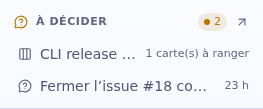
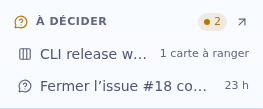
L'instance peut couper les décisions, et la section « À décider » accorde son pluriel
`[mcp] decisions` dans config.toml plafonne le réglage de conversation, comme les
autres familles d'outils du serveur MCP : éteint, l'outil n'est plus listé, la
demande est refusée côté base et l'entrée disparaît des réglages de session. Il est
allumé par défaut : c'est un veto, le réglage de conversation restant faux tant
qu'on ne l'accorde pas. La ligne d'un rangement en attente dit « 1 carte à
ranger » au lieu de « 1 carte(s) ».

Changed region(s): [[0.4563, 0.4404, 0.7605, 0.5505]]

diff --git a/packages/protocol/src/agent-config.ts b/packages/protocol/src/agent-config.ts
@@ -56,8 +56,7 @@ export const claudeEffortSchema = z.enum(['low', 'medium', 'high', 'xhigh', 'max
  * `request_card_move`, l'agent propose et c'est le clic qui agit, et toute réécriture
  * par un agent le remet en attente. La garde est donc sur le script et non sur l'outil.
  *
- * **Quatre étages d'héritage**, les mêmes pour toutes les familles (sauf `decisions`, qui
- * n'a pas le quatrième) : conversation →
+ * **Quatre étages d'héritage**, les mêmes pour toutes les familles : conversation →
  * préréglage de projet (`projects.default_config`) → défaut de compte → `config.toml`.
  * Les trois premiers sont des points de départ (`??`), le dernier seul est un plafond
  * (`&&`), et c'est lui qui fait *disparaître* l'entrée de l'interface. Toutes les
@@ -68,8 +67,8 @@ export const claudeEffortSchema = z.enum(['low', 'medium', 'high', 'xhigh', 'max
  * **Le prix d'une famille neuve est de quatre endroits** — les trois schémas de CLI
  * ci-dessous et `apps/server/src/config.ts` — **plus deux catalogues i18n.** C'est cet
  * argument, et non le critère, qui a tenu le nombre à quatre. `decisions`, la cinquième,
- * s'en tire à trois endroits : elle n'a pas de plafond d'instance (voir son schéma), donc
- * trois étages d'héritage au lieu de quatre.
+ * les paie aussi ; son plafond d'instance est seulement allumé par défaut (voir son
+ * schéma).
  *
  * `FREE_THREAD_TOOLS` (`apps/server/src/mcp/solera-mcp.mjs`) n'est **pas** une famille et
  * n'a rien à faire dans un écran de réglages : c'est la liste des outils qui ont encore
@@ -172,8 +171,9 @@ export const DEFAULT_DECISION_HOURS = 24
  * par son `config`), mais ouvert à toute session qui l'a : une session interactive qu'on
  * quitte pour la nuit en a le même usage.
  *
- * Pas de plafond d'instance dans `config.toml`, à la différence des quatre familles
- * d'avant : rien ne s'applique sans une personne, et l'outil ne sort pas du projet.
+ * Vetoable pour l'instance dans `config.toml`, où `[mcp] decisions = false` fait aussi
+ * disparaître l'entrée. Ce plafond-là est **allumé par défaut**, à la différence des
+ * autres : rien ne s'applique sans une personne, et l'outil ne sort pas du projet.
  */
 const decisionsSchema = z.boolean().default(false)
 

diff --git a/apps/server/test/decisions.test.ts b/apps/server/test/decisions.test.ts
@@ -89,7 +89,7 @@ async function harness(t: TestContext) {
   const awaited: string[][] = []
   bus.on('awaiting', ({ userIds }: { userIds: string[] }) => awaited.push(userIds))
   const dispatched: Array<{ userId: string; notification: OutgoingNotification }> = []
-  const ctx = { db, config: { mcp: {} } as unknown as Config }
+  const ctx = { db, config: { mcp: { decisions: true } } as unknown as Config }
   const decisions = new Decisions(ctx, log, bus, {
     dispatch: async (userId, notification) => {
       dispatched.push({ userId, notification })
@@ -133,7 +133,7 @@ async function harness(t: TestContext) {
     return (JSON.parse(run.stdout).result as { tools: { name: string }[] }).tools.map((tool) => tool.name)
   }
 
-  return { db, app, decisions, requests, ask, row, messages, journal, dispatched, awaited, tools }
+  return { db, ctx, app, decisions, requests, ask, row, messages, journal, dispatched, awaited, tools }
 }
 
 test('décisions : déposée sans bloquer, notifiée, et rendue à la session par un message', async (t) => {
@@ -229,8 +229,15 @@ test('décisions : déposée sans bloquer, notifiée, et rendue à la session pa
   assert.equal(messages(ALLOWED)[0]!.deliveredVia, 'wake')
 })
 
-test('décisions : refusées sans le drapeau, en fil libre, et une seule à la fois', async (t) => {
-  const { ask, tools } = await harness(t)
+test('décisions : refusées par l’instance, sans le drapeau, en fil libre, et une seule à la fois', async (t) => {
+  const { ctx, ask, tools } = await harness(t)
+
+  // L'instance tient le plafond : éteinte, même une session qui a le drapeau est refusée.
+  ctx.config.mcp.decisions = false
+  const vetoed = await ask(ALLOWED, { question: 'On pousse ?' })
+  assert.equal(vetoed.isError, true)
+  assert.match(vetoed.result ?? '', /\[mcp\] decisions/)
+  ctx.config.mcp.decisions = true
 
   const refused = await ask(PLAIN, { question: 'On pousse ?' })
   assert.equal(refused.isError, true)

diff --git a/apps/web/src/components/chat/agent-settings.tsx b/apps/web/src/components/chat/agent-settings.tsx
@@ -726,6 +726,7 @@ export function useAgentSettings({
   // Même dépendance que le rangement de projet : l'outil vit dans le serveur MCP de
   // Solera, l'entrée disparaît quand l'instance coupe l'un ou l'autre.
   const cardFilingAvailable = soleraAvailable && mcpRegistry?.cardFiling === true
+  const decisionsAvailable = soleraAvailable && mcpRegistry?.decisions === true
 
   const permissionOptionList = permissionOptions(t)
   const sandboxOptionList = codexSandboxOptions(t)
@@ -933,7 +934,7 @@ export function useAgentSettings({
             }),
           ]
         : []),
-      ...(soleraAvailable
+      ...(decisionsAvailable
         ? [decisionsSetting(claude, appliedConfig?.agent === 'claude' ? appliedConfig : null, onConfigChange, t)]
         : []),
       setting({
@@ -1105,7 +1106,7 @@ export function useAgentSettings({
             }),
           ]
         : []),
-      ...(soleraAvailable
+      ...(decisionsAvailable
         ? [decisionsSetting(codex, appliedConfig?.agent === 'codex' ? appliedConfig : null, onConfigChange, t)]
         : []),
       setting({
@@ -1287,7 +1288,7 @@ export function useAgentSettings({
             }),
           ]
         : []),
-      ...(soleraAvailable
+      ...(decisionsAvailable
         ? [decisionsSetting(opencode, applied, onConfigChange, t)]
         : []),
       setting({

diff --git a/apps/server/src/sessions/agent-requests.ts b/apps/server/src/sessions/agent-requests.ts
@@ -1297,6 +1297,11 @@ export class AgentRequests {
     requester: ConversationRow,
     payload: Record<string, unknown>,
   ): Promise<string> {
+    if (!this.ctx.config.mcp.decisions) {
+      throw new Refusal(
+        "Refusé : cette instance de Solera n'ouvre pas les demandes de décision aux agents (`[mcp] decisions` dans config.toml). Décide selon tes instructions, ou pose ta question dans ta réponse.",
+      )
+    }
     if (!parseAgentConfig(requester.config).decisions) {
       throw new Refusal(
         "Refusé : les demandes de décision ne sont pas accordées à cette conversation. Décide selon tes instructions, ou pose ta question dans ta réponse. L'utilisateur peut cocher « Décisions » dans les réglages de la session, et la relancer.",

diff --git a/apps/server/src/config.ts b/apps/server/src/config.ts
@@ -92,6 +92,16 @@ const configSchema = z.object({
        * `soleraServer`.
        */
       cardFiling: z.boolean().default(false),
+      /**
+       * Laisse les agents demander une décision (`request_decision`), que l'utilisateur
+       * tranche plus tard sans que la session attende.
+       *
+       * Vrai par défaut, à la différence des trois précédents : c'est un veto, pas une
+       * portée. Le réglage de conversation qu'il chapeaute est déjà faux par défaut, et
+       * rien ne s'applique sans une personne ; l'éteindre ici fait disparaître l'entrée
+       * de l'interface, par le même raisonnement que `soleraServer`.
+       */
+      decisions: z.boolean().default(true),
     })
     .default({}),
   vault: z

diff --git a/apps/server/src/sessions/session-manager.ts b/apps/server/src/sessions/session-manager.ts
@@ -884,7 +884,7 @@ export class SessionManager {
           memoryDir: memoryDir(current) ?? '',
           projectFiling: this.config.mcp.projectFiling && current.projectFiling,
           cardFiling: this.config.mcp.cardFiling && current.cardFiling,
-          decisions: current.decisions,
+          decisions: this.config.mcp.decisions && current.decisions,
           designSystemState:
             designSystem && this.storybooks ? this.storybooks.statePath(designSystem) : '',
         })

diff --git a/apps/web/src/lib/i18n/catalog-fr.ts b/apps/web/src/lib/i18n/catalog-fr.ts
@@ -2949,7 +2949,8 @@ export const fr: Catalog = {
   "awaiting.heading": "À décider",
   "awaiting.count": "{count} en attente de toi",
   "awaiting.more": "+ {count} de plus",
-  "awaiting.cardMove": "{count} carte(s) à ranger",
+  "awaiting.cardMove.one": "{count} carte à ranger",
+  "awaiting.cardMove.other": "{count} cartes à ranger",
   "awaiting.moveConversation": "à ranger",
   "toast.decision.title": "Une session demande une décision",
   "toast.decision.answer": "Répondre",

diff --git a/apps/web/src/lib/i18n/catalog-en.ts b/apps/web/src/lib/i18n/catalog-en.ts
@@ -2954,7 +2954,8 @@ export const en = {
   "awaiting.heading": "To decide",
   "awaiting.count": "{count} waiting for you",
   "awaiting.more": "+ {count} more",
-  "awaiting.cardMove": "{count} card(s) to move",
+  "awaiting.cardMove.one": "{count} card to move",
+  "awaiting.cardMove.other": "{count} cards to move",
   "awaiting.moveConversation": "to file",
   "toast.decision.title": "A session is asking for a decision",
   "toast.decision.answer": "Answer",

diff --git a/apps/web/src/components/sidebar/SidebarAwaiting.tsx b/apps/web/src/components/sidebar/SidebarAwaiting.tsx
@@ -119,7 +119,7 @@ function AwaitingLine({ request, onNavigate }: {
 
   const label =
     request.kind === 'request_card_move'
-      ? t('awaiting.cardMove', { count: request.count })
+      ? t(request.count > 1 ? 'awaiting.cardMove.other' : 'awaiting.cardMove.one', { count: request.count })
       : t('awaiting.moveConversation')
   return (
     <NavLink

diff --git a/packages/protocol/src/api.ts b/packages/protocol/src/api.ts
@@ -1248,6 +1248,8 @@ export interface McpServerListDto {
   projectFiling: boolean
   /** Faux quand l'instance refuse aux agents de proposer un rangement de carte. */
   cardFiling: boolean
+  /** Faux quand l'instance refuse aux agents de demander une décision : l'entrée disparaît. */
+  decisions: boolean
 }
 
 // Erreurs

diff --git a/apps/server/src/http/routes/mcp.ts b/apps/server/src/http/routes/mcp.ts
@@ -67,6 +67,7 @@ export function registerMcpRoutes(app: FastifyInstance, ctx: AppContext): void {
       agentMemory: ctx.config.mcp.agentMemory,
       projectFiling: ctx.config.mcp.projectFiling,
       cardFiling: ctx.config.mcp.cardFiling,
+      decisions: ctx.config.mcp.decisions,
     }
   })
 
